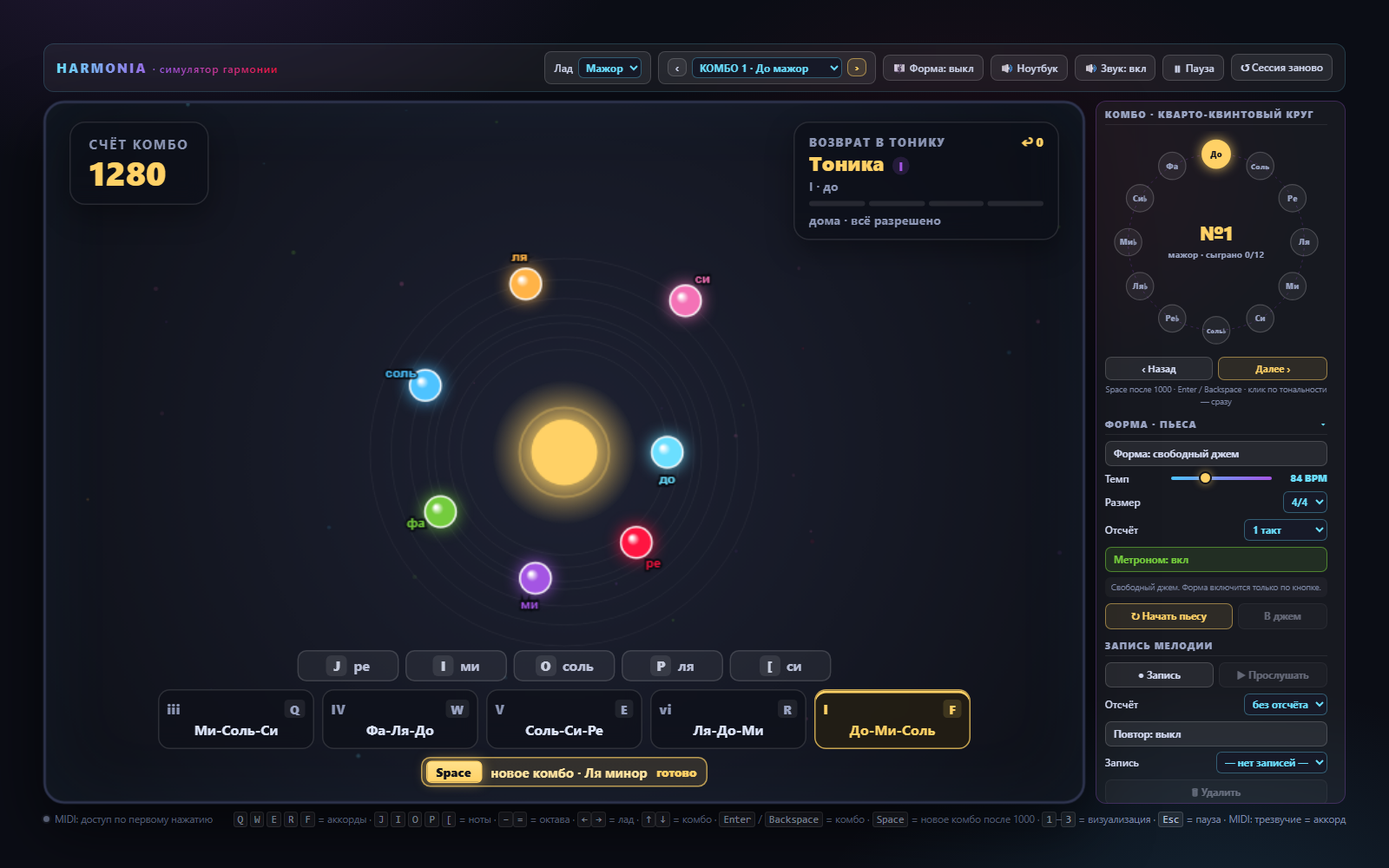
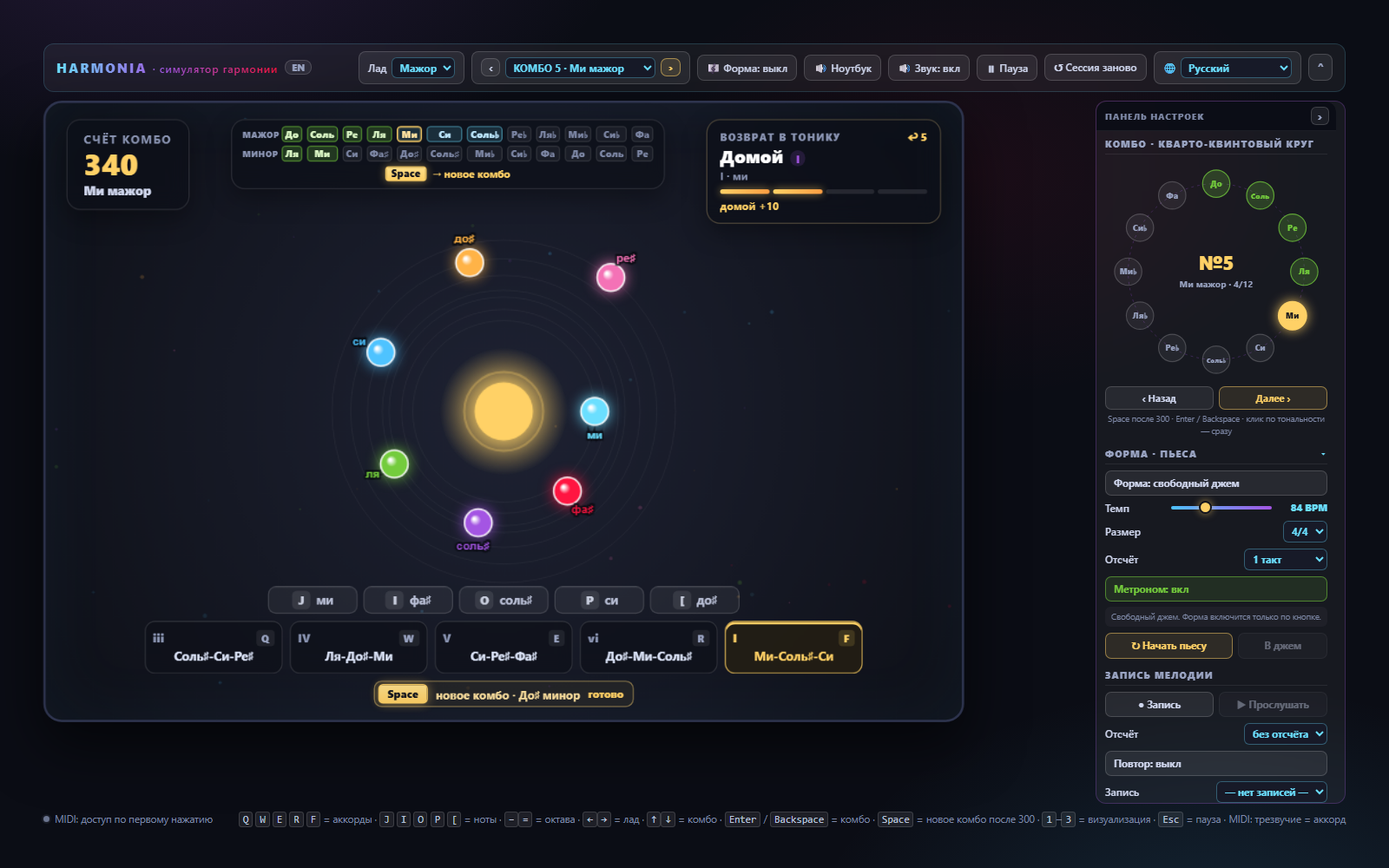
feat(ui): 24-combo progress strip in the HUD, Space hint moved into it
The strip sits between the score and the return-to-tonic panel: two rows of twelve cells in circle order, grey -> seen (entered) -> done (cycle played), the current combo pulses gold. It is a grid with max-content columns so flats and sharps keep the rows aligned, and it steps aside while #formHud is active.

The Space reminder lives inside the strip (#spaceHint, .space-hint instead of .score-space) and the strip itself pulses at the 300 / +150 / +300 thresholds via nudgeSpace().

Smoke: new combo-strip step (24 cells, one current, class states) and a stronger space-hint step; the EN landing page must now use docs/screenshot-en.png with an English alt. Screenshots regenerated, README/ARCHITECTURE/CLINE_HANDOFF updated.

diff --git a/css/stage.css b/css/stage.css
@@ -33,31 +33,98 @@ canvas { position: absolute; top: 0; left: 0; width: 100%; height: 100%; }
 .score-box { padding: 9px 14px; }
 .score-title { font-size: 10px; text-transform: uppercase; letter-spacing: 1.2px; color: #8b95b3; font-weight: 700; }
 .score-value { font-size: 26px; font-weight: 800; color: #ffd166; line-height: 1.15; font-variant-numeric: tabular-nums; }
-/* Музыкальное имя комбо и напоминание о пробеле — две короткие строки под
-   счётом. Счёт принадлежит тональности, поэтому они стоят вместе: игрок
-   читает «сколько очков · где я · что даст пробел» одним взглядом, а блок
-   Space под аккордами остаётся прежним. */
+/* Музыкальное имя комбо — строка под счётом: счёт принадлежит тональности, и
+   «сколько очков · где я» читается одним взглядом. Сама подсказка о пробеле
+   живёт в полосе комбо (ниже): там же, где видно маршрут по 24 ступеням. */
 .score-key {
   margin-top: 1px; font-size: 10.5px; font-weight: 800; letter-spacing: 0.2px;
   color: #d0d7ee; white-space: nowrap;
 }
-.score-space {
-  display: flex; align-items: center; gap: 5px; margin-top: 3px;
+/* Подсказка о пробеле живёт в полосе комбо, под ячейками: до рубежа — сколько
+   очков осталось, после — что сделает пробел. Отдельного бокса у счёта больше
+   нет: счёт и маршрут читаются по разным местам. */
+.space-hint {
+  display: flex; align-items: center; gap: 5px;
   font-size: 9px; font-weight: 700; line-height: 1; color: #7e88a6; white-space: nowrap;
 }
-.score-space b {
+.space-hint b {
   padding: 1px 4px; border-radius: 3px;
   font-size: 8.5px; font-weight: 800; letter-spacing: 0.3px; color: #9aa4c2;
   background: rgba(255, 255, 255, 0.08); border: 1px solid rgba(255, 255, 255, 0.12);
 }
-.score-space.ready { color: #ffd166; }
-.score-space.ready b {
+.space-hint.ready { color: #ffd166; }
+.space-hint.ready b {
   color: #12141d; background: linear-gradient(180deg, #ffe08a, #ffd166);
   border-color: #ffd166; box-shadow: 0 0 8px rgba(255, 209, 102, 0.45);
 }
-/* Рубеж пройден: блок счёта дважды мягко вспыхивает, чтобы взгляд вернулся к
-   счёту и увидел строку про пробел. Это напоминание, а не тревога. */
-.score-box.attn { animation: scoreNudge 0.9s ease-out 2; }
+/* ===== Полоса прогресса по 24 комбо =====
+   Верх сцены — единственное место, которое в игре видно всегда: в левом углу
+   счёт, в правом — возврат в тонику, а между ними пустая середина. Там и живут
+   двенадцать колонок кварто-квинтового круга в двух рядах (мажор и минор).
+   Ячейка — ступень маршрута: тёмная, пока комбо не начато; голубая, когда
+   игрок в него вошёл; зелёная, когда собран цикл из четырёх аккордов; текущая
+   мягко мигает золотом — это и есть подсказка «ты здесь, дальше — пробел»,
+   без отдельной строки текста. В пьесе центр занимает форма, и полоса уступает
+   ей место. */
+.combo-strip {
+  /* Полоса стоит между счётом и «домой» в потоке HUD: flex сам раздаёт
+     свободное место, поэтому ячейки не наезжают ни на число очков, ни на
+     индикатор тоники — даже когда счёт становится четырёхзначным. */
+  flex: none; align-self: flex-start;
+  display: flex; flex-direction: column; align-items: center; gap: 4px;
+  padding: 5px 9px 6px;
+  background: rgba(12, 15, 24, 0.68); backdrop-filter: blur(9px);
+  border-radius: 12px; border: 1px solid rgba(255, 255, 255, 0.11);
+  box-shadow: 0 8px 22px rgba(0, 0, 0, 0.32);
+  transition: border-color 0.2s, box-shadow 0.2s;
+}
+#formHud.on ~ .combo-strip { display: none; }
+/* Ряды и их обёртки не создают боксов: 26 ячеек (2 подписи + 24 ноты) лежат
+   одной сеткой, поэтому колонки мажора и минора совпадают, а ширина колонки
+   берётся по самой длинной подписи — «соль♭» не вылезает из рамки. */
+.cs-body {
+  display: grid; grid-template-columns: auto repeat(12, max-content);
+  column-gap: 4px; row-gap: 3px; align-items: center;
+}
+.cs-row, .cs-cells { display: contents; }
+.cs-tag {
+  width: 30px; font-size: 7px; font-weight: 800; letter-spacing: 0.6px;
+  text-transform: uppercase; color: #8b95b3; white-space: nowrap;
+}
+.cs-cell {
+  display: inline-flex; align-items: center; justify-content: center;
+  min-width: 15px; height: 14px; padding: 0 2px;
+  font-size: 8px; font-weight: 800; line-height: 1; letter-spacing: 0.2px;
+  color: #7e88a6; background: rgba(255, 255, 255, 0.05);
+  border: 1px solid rgba(255, 255, 255, 0.1); border-radius: 3.5px;
+  font-variant-numeric: tabular-nums; white-space: nowrap;
+  transition: color 0.18s, background 0.18s, border-color 0.18s, box-shadow 0.18s;
+}
+/* Вошёл в комбо — ячейка светлеет: маршрут виден ещё до первого аккорда. */
+.cs-cell.seen {
+  color: #bfe9ff; background: rgba(107, 223, 255, 0.14);
+  border-color: rgba(107, 223, 255, 0.42);
+}
+/* Цикл из четырёх аккордов собран — ступень пройдена целиком. */
+.cs-cell.done {
+  color: #dcf7c6; background: rgba(116, 204, 61, 0.2);
+  border-color: rgba(116, 204, 61, 0.55);
+}
+/* Текущее комбо: золотая рамка и медленное дыхание — напоминание, где игрок.
+   Пульсация не отменяет заливку: пройденная ступень остаётся зелёной. */
+.cs-cell.current {
+  color: #ffe3a1; border-color: #ffd166;
+  box-shadow: inset 0 0 0 1px rgba(255, 209, 102, 0.35);
+  animation: csPulse 2.1s ease-in-out infinite;
+}
+.cs-cell.current.done { color: #f4ffd9; }
+@keyframes csPulse {
+  0%, 100% { box-shadow: inset 0 0 0 1px rgba(255, 209, 102, 0.35), 0 0 0 0 rgba(255, 209, 102, 0); }
+  50% { box-shadow: inset 0 0 0 1px rgba(255, 209, 102, 0.7), 0 0 9px 1px rgba(255, 209, 102, 0.5); }
+}
+/* Рубеж пройден: полоса дважды мягко вспыхивает, чтобы взгляд вернулся к
+   подсказке о пробеле. Это напоминание, а не тревога. */
+.combo-strip.attn { animation: scoreNudge 0.9s ease-out 2; }
 @keyframes scoreNudge {
   0%, 100% { border-color: rgba(255, 255, 255, 0.11); box-shadow: 0 8px 22px rgba(0, 0, 0, 0.32); }
   45% { border-color: rgba(255, 209, 102, 0.9); box-shadow: 0 0 22px rgba(255, 209, 102, 0.3), 0 8px 22px rgba(0, 0, 0, 0.32); }
@@ -297,7 +364,11 @@ canvas { position: absolute; top: 0; left: 0; width: 100%; height: 100%; }
 }
 /* Кому мигание не подходит — подсказка остаётся текстом и цветом. */
 @media (prefers-reduced-motion: reduce) {
-  .score-box.attn, #spaceNext.ready.attn { animation: none; }
+  .combo-strip.attn, #spaceNext.ready.attn { animation: none; }
+  .cs-cell.current {
+    animation: none;
+    box-shadow: inset 0 0 0 1px rgba(255, 209, 102, 0.7);
+  }
 }
 
 /* Результат пьесы: отдельный слой, который не мешает свободному джему после

diff --git a/js/ui-hud.js b/js/ui-hud.js
@@ -311,21 +311,66 @@ function updateHUD() {
   $('pNextCombo').classList.toggle('pulse', cycleDone && state.running && !state.paused);
   paintChordPad();
   paintWheel();
+  paintComboStrip();
   if (typeof updateFormHUD === 'function') updateFormHUD();
   updateSpaceNext();
 }
+// ===== Полоса прогресса по 24 комбо =====
+// Верх сцены — единственное место, которое игрок видит постоянно, поэтому
+// прогресс по всем 12 × 2 комбинациям живёт там: два ряда ячеек в порядке
+// кварто-квинтового круга. Ячейка светлеет, когда игрок вошёл в комбо
+// (state.entered), зеленеет, когда собран цикл из четырёх аккордов
+// (state.played), а текущая мягко мигает — так видно и «где я», и что дальше
+// есть шаг. Подпись ячейки — тоника: ряд уже назван ладом, «m» не нужна.
+let comboCells = [];
+function buildComboStrip() {
+  const strip = $('comboStrip');
+  if (!strip) return;
+  ['major', 'minor'].forEach(mode => {
+    const host = $(mode === 'major' ? 'csMajor' : 'csMinor');
+    if (!host) return;
+    host.innerHTML = ORDER[mode].map((id, i) => {
+      const label = cap(noteLabel(COMBOS[id].chords[0][0]));
+      return `<span class="cs-cell" data-mode="${mode}" data-idx="${i}">${label}</span>`;
+    }).join('');
+  });
+  comboCells = Array.from(strip.querySelectorAll('.cs-cell'));
+  paintComboStrip();
+}
+function paintComboStrip() {
+  if (!comboCells.length || typeof COMBOS === 'undefined') return;
+  comboCells.forEach(cell => {
+    const mode = cell.dataset.mode;
+    const idx = Number(cell.dataset.idx);
+    const done = !!(state.played[mode] && state.played[mode][idx]);
+    const seen = done || !!(state.entered && state.entered[mode] && state.entered[mode][idx]);
+    cell.classList.toggle('current', mode === state.mode && idx === state.comboIdx);
+    cell.classList.toggle('done', done);
+    cell.classList.toggle('seen', seen && !done);
+  });
+  // Прогресс для скринридера — счёт собранных циклов: «3 / 24» без перевода.
+  const bar = $('comboProgress');
+  if (!bar) return;
+  const played = state.played.major.filter(Boolean).length +
+    state.played.minor.filter(Boolean).length;
+  const total = ORDER.major.length + ORDER.minor.length;
+  bar.setAttribute('aria-valuemax', String(total));
+  bar.setAttribute('aria-valuenow', String(played));
+  bar.setAttribute('aria-valuetext', played + ' / ' + total);
+}
 // ===== Напоминание о пробеле =====
-// Очки игрок видит в левом верхнем углу, а кнопка перехода живёт внизу под
-// аккордами — и после 300 очков её легко не заметить: руки заняты, взгляд на
-// счёте. Рядом со счётом появляется короткая строка «Space · ещё N», после
-// рубежа — «Space → новое комбо». Это не модальное окно и не тост (тост занят
-// названием аккорда), а тихое напоминание в том месте, куда игрок и так смотрит.
-// Блок счёта мягко подсвечивается на рубеже и ещё дважды, если игрок решил
-// играть дальше; после третьего раза мигалка замолкает до смены комбо.
+// Очки игрок видит в левом верхнем углу, маршрут по 24 комбо — в полосе по
+// центру, а кнопка перехода живёт внизу под аккордами, и после 300 очков её
+// легко не заметить: руки заняты, взгляд на сцене. Поэтому подсказка стоит в
+// самой полосе: до рубежа — «Space · ещё N», после — «Space → новое комбо».
+// Это не модальное окно и не тост (тост занят названием аккорда), а тихое
+// напоминание рядом с мигающей ячейкой текущего комбо. Полоса мягко
+// подсвечивается на рубеже и ещё дважды, если игрок решил играть дальше;
+// после третьего раза мигалка замолкает до смены комбо.
 let spaceNudgeKey = '', spaceNudgeStage = 0, spaceNudgeTimer = null;
 function resetSpaceNudge(key) {
   if (spaceNudgeTimer) { clearTimeout(spaceNudgeTimer); spaceNudgeTimer = null; }
-  document.querySelectorAll('.score-box.attn, #spaceNext.attn')
+  document.querySelectorAll('.combo-strip.attn, #spaceNext.attn')
     .forEach(el => el.classList.remove('attn'));
   spaceNudgeKey = key;
   spaceNudgeStage = 0;
@@ -350,7 +395,7 @@ function nudgeSpace(ready, threshold) {
   const stage = Math.min(3, 1 + Math.floor((state.score - threshold) / step));
   if (stage <= spaceNudgeStage) return;
   spaceNudgeStage = stage;
-  const targets = [document.querySelector('.score-box'), $('spaceNext')].filter(Boolean);
+  const targets = [$('comboStrip'), $('spaceNext')].filter(Boolean);
   targets.forEach(el => {
     el.classList.remove('attn');
     void el.offsetWidth;

diff --git a/index.html b/index.html
@@ -159,13 +159,6 @@
                стоит прямо под числом. Нотация (до-ре-ми / C-D-E) следует за
                языком интерфейса, поэтому строка не переводится. -->
           <div class="score-key notranslate" id="comboKey" translate="no">До мажор</div>
-          <!-- Напоминание о пробеле: до рубежа — сколько очков осталось, после —
-               что сделает пробел. Текст ставит updateSpaceNext(); блок мягко
-               подсвечивается на рубеже (nudgeSpace). -->
-          <div class="score-space" id="spaceHint">
-            <b class="notranslate" translate="no">Space</b>
-            <span id="spaceHintText">ещё 300</span>
-          </div>
         </div>
 
         <!-- Пьеса — необязательный слой. В свободном джеме блок скрыт целиком. -->
@@ -182,6 +175,32 @@
             <span id="formBeats" class="form-beats" aria-hidden="true"></span>
           </div>
           <div id="formAward" class="form-award"></div>
+        </div>
+
+        <!-- Полоса прогресса по 24 комбо: два ряда по двенадцать ячеек в порядке
+             кварто-квинтового круга. Ячейка светлеет, когда игрок вошёл в комбо,
+             зеленеет, когда собран цикл из четырёх аккордов, а текущая мягко
+             мигает — так видно и «где я», и что дальше есть шаг. Подсказка о
+             пробеле живёт здесь же: до рубежа — сколько очков осталось, после —
+             что сделает пробел (ставит updateSpaceNext, подсветка — nudgeSpace).
+             В пьесе центр занимает форма, и полоса уступает ей место (CSS). -->
+        <div id="comboStrip" class="combo-strip">
+          <div class="cs-body" id="comboProgress" role="progressbar"
+               aria-valuemin="0" aria-valuemax="24" aria-valuenow="0"
+               aria-label="Пройдено комбо из 24">
+            <div class="cs-row">
+              <span class="cs-tag">Мажор</span>
+              <div class="cs-cells" id="csMajor"></div>
+            </div>
+            <div class="cs-row">
+              <span class="cs-tag">Минор</span>
+              <div class="cs-cells" id="csMinor"></div>
+            </div>
+          </div>
+          <div class="space-hint" id="spaceHint">
+            <b class="notranslate" translate="no">Space</b>
+            <span id="spaceHintText">ещё 300</span>
+          </div>
         </div>
 
         <!-- Индикатор возврата в тонику: накопленное напряжение и последний «домой». -->

diff --git a/ru/index.html b/ru/index.html
@@ -68,10 +68,12 @@
 
       <figure class="shot">
         <img src="../docs/screenshot.png" width="1600" height="1000"
-             alt="Сцена HARMONIA: семь цветных шаров ступеней вокруг солнца-тоники, выше — блоки счёта комбо и возврата в тонику, ниже — карточки аккордов и кварто-квинтовый круг в панели настроек">
-        <figcaption>Сцена: семь шаров ступеней вокруг тоники, счёт комбо с названием тональности,
-          индикатор возврата в тонику, карточки аккордов и панель настроек. Интерфейс показан
-          по-русски; английский включается в списке языков или ссылкой <code>?lang=en</code>.</figcaption>
+             alt="Сцена HARMONIA: полоса из 24 комбо вверху, семь цветных шаров ступеней вокруг солнца-тоники, блоки счёта комбо и возврата в тонику, ниже — карточки аккордов и кварто-квинтовый круг в панели настроек">
+        <figcaption>Сцена: полоса из двадцати четырёх комбо вверху показывает, где вы на круге, —
+          ячейка светлеет при входе в комбо, зеленеет после сыгранного цикла из четырёх аккордов,
+          а текущая мягко мигает. Ниже — семь шаров ступеней, счёт комбо с названием тональности,
+          индикатор возврата в тонику, карточки аккордов и панель настроек. Английский
+          включается в списке языков или ссылкой <code>?lang=en</code>.</figcaption>
       </figure>
     </section>
     <section id="what">

diff --git a/en/index.html b/en/index.html
@@ -69,11 +69,12 @@
       <p class="note">Free, no sign-up, no installation. Computer keyboard works out of the box.</p>
 
       <figure class="shot">
-        <img src="../docs/screenshot.png" width="1600" height="1000"
-             alt="HARMONIA simulator stage: seven coloured degree balls around a tonic sun, score and return-to-tonic panels above, chord pad and circle of fifths below">
-        <figcaption>The stage: seven degree balls orbiting the tonic, the return-to-tonic indicator,
-          the chord pad and the settings panel. The screenshot is the Russian interface; English is
-          built in — pick it in the language menu or open <code>?lang=en</code>.</figcaption>
+        <img src="../docs/screenshot-en.png" width="1600" height="1000"
+             alt="HARMONIA simulator stage in English: the 24-combo strip with twelve major and twelve minor keys along the top, seven coloured degree balls around a tonic sun, score and return-to-tonic panels, chord pad and settings panel">
+        <figcaption>The stage in English: the 24-combo strip along the top shows where you are in the
+          circle — a cell lights up as you enter a combo, turns green once its four-chord cycle is
+          played, and the current one blinks. Below are the seven degree balls, the
+          return-to-tonic indicator, the chord pad and the settings panel.</figcaption>
       </figure>
     </section>
 

diff --git a/js/state.js b/js/state.js
@@ -7,6 +7,10 @@ const state = {
   mode: 'major', comboIdx: 0, chordIndex: 0,
   visited: [false, false, false, false],
   played: { major: [], minor: [] },
+  // entered — комбо, в которые игрок уже заходил в этой сессии. Полоса прогресса
+  // вверху сцены показывает сначала «вошёл» (голубая ячейка), а played — «собрал
+  // цикл из четырёх аккордов» (зелёная). Сбрасывается вместе с played.
+  entered: { major: [], minor: [] },
   clock: 0, rings: 0,
   // score — счёт текущего комбо. loadCombo() начинает каждое комбо с нуля;
   // отдельного общего счёта сессии больше нет.
@@ -69,6 +73,8 @@ const state = {
 };
 ORDER.major.forEach(() => state.played.major.push(false));
 ORDER.minor.forEach(() => state.played.minor.push(false));
+ORDER.major.forEach(() => state.entered.major.push(false));
+ORDER.minor.forEach(() => state.entered.minor.push(false));
 const combo = () => COMBOS[ORDER[state.mode][state.comboIdx]];
 const rootMidi = () => 48 + combo().root;
 // Единый «можно ли играть» — используется вводом, MIDI, аккордами и нотами.

diff --git a/js/game.js b/js/game.js
@@ -159,6 +159,9 @@ function loadCombo(idx, keepPen) {
   releaseAllHolds();
   const len = ORDER[state.mode].length;
   state.comboIdx = ((idx % len) + len) % len;
+  // Вошли в комбо — ячейка на полосе прогресса светлеет сразу, задолго до того,
+  // как собран цикл из четырёх аккордов (полоса живёт в ui-hud.js).
+  if (state.entered && state.entered[state.mode]) state.entered[state.mode][state.comboIdx] = true;
   // У каждого комбо собственный счёт: при входе в новое комбо он начинается с нуля.
   state.score = 0;
   state.chordIndex = 0;
@@ -242,6 +245,8 @@ function startSession() {
   state.explored = new Set();
   state.played.major = state.played.major.map(() => false);
   state.played.minor = state.played.minor.map(() => false);
+  state.entered.major = state.entered.major.map(() => false);
+  state.entered.minor = state.entered.minor.map(() => false);
   state.running = true; state.paused = false;
   // Стартовый экран прятал меню: возвращаем хром в том виде, в каком игрок его
   // оставил (проба пальцев панели не открывает насильно).

diff --git a/js/translate.js b/js/translate.js
@@ -239,9 +239,10 @@ var Translate = (function () {
   // и соль, а клавиша «J» превращается в «ICH». Такие узлы помечаем notranslate.
   // Строка тональности рядом со счётом входит сюда же: её нотация выбирается
   // игрой (P.notation), а Google перевёл бы «До мажор» как «Before major».
+  // Ячейки полосы комбо — те же ноты, что и на колесе: их подписи тоже ставит игра.
   const SHIELD = [
     '#noteRow', '#chordPad', '#fifthsWheel', '#homeDeg', '#homeNote', '#comboKey',
-    '#startOverlay .kb-key', '#spaceNext .sn-key', '.hints kbd'
+    '#comboStrip .cs-cells', '#startOverlay .kb-key', '#spaceNext .sn-key', '.hints kbd'
   ];
 
   function shieldSymbols() {

diff --git a/js/ui-panel.js b/js/ui-panel.js
@@ -113,6 +113,10 @@ function refreshNotation() {
     balls.forEach((b, i) => { b.name = noteLabel(c.scaleNames[i + 1]); });
   }
   if (typeof buildWheel === 'function') buildWheel();
+  // Подписи ячеек полосы — те же ноты, что и на колесе, поэтому нотация у них
+  // общая: пересобираем полосу вместе с колесом, а классы прогресса расставит
+  // updateHUD ниже.
+  if (typeof buildComboStrip === 'function') buildComboStrip();
   if (typeof fillComboSelect === 'function') fillComboSelect();
   if (typeof buildChordPad === 'function') buildChordPad();
   // Итог пьесы тоже показывает ноты (диапазон мелодии): перерисовываем его,

diff --git a/js/i18n.js b/js/i18n.js
@@ -94,6 +94,9 @@ var I18N = (function () {
     'новое комбо': 'new combo',
     '→ новое комбо': '→ new combo',
     'готово': 'ready',
+    // Полоса прогресса по 24 комбо: подпись для скринридера (сама aria-value —
+    // числа, они не переводятся).
+    'Пройдено комбо из 24': 'Combos completed out of 24',
 
     // ===== Итог пьесы и пауза =====
     'Пьеса завершена': 'Piece complete',

diff --git a/js/main.js b/js/main.js
@@ -4,6 +4,7 @@
 
 fillComboSelect();
 buildWheel();
+buildComboStrip();
 buildBalls();
 buildNoteRow();
 buildChordPad();
